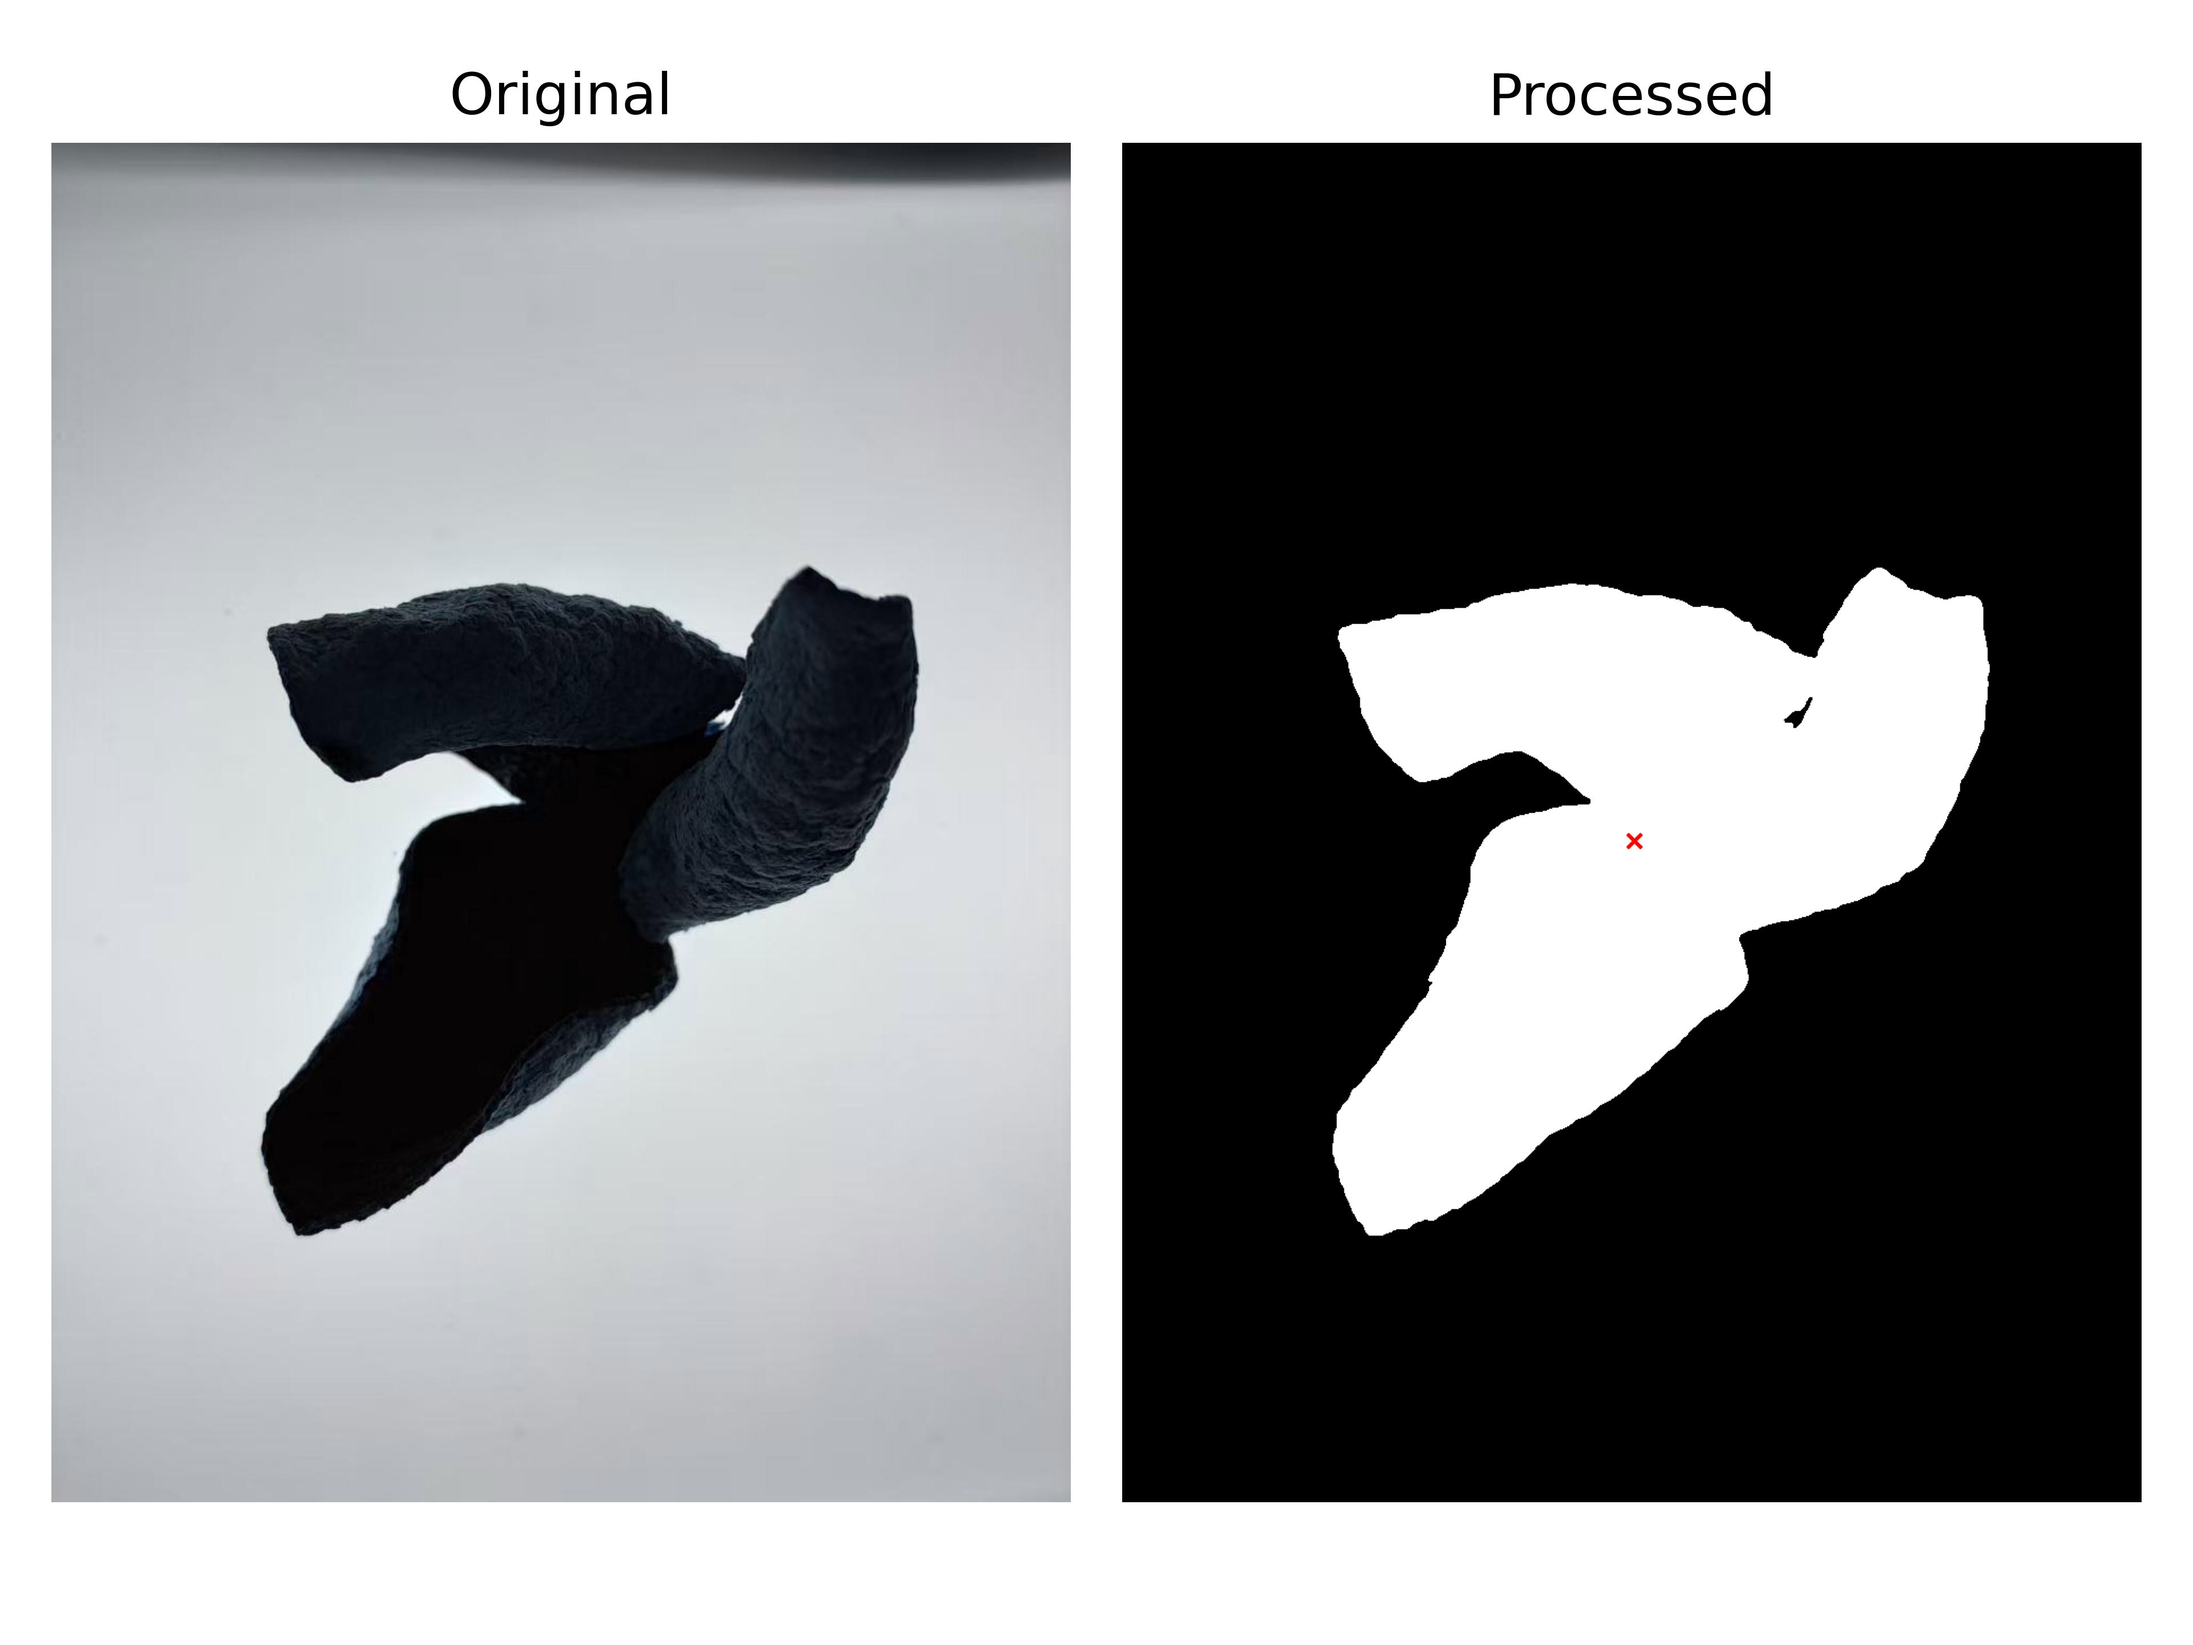
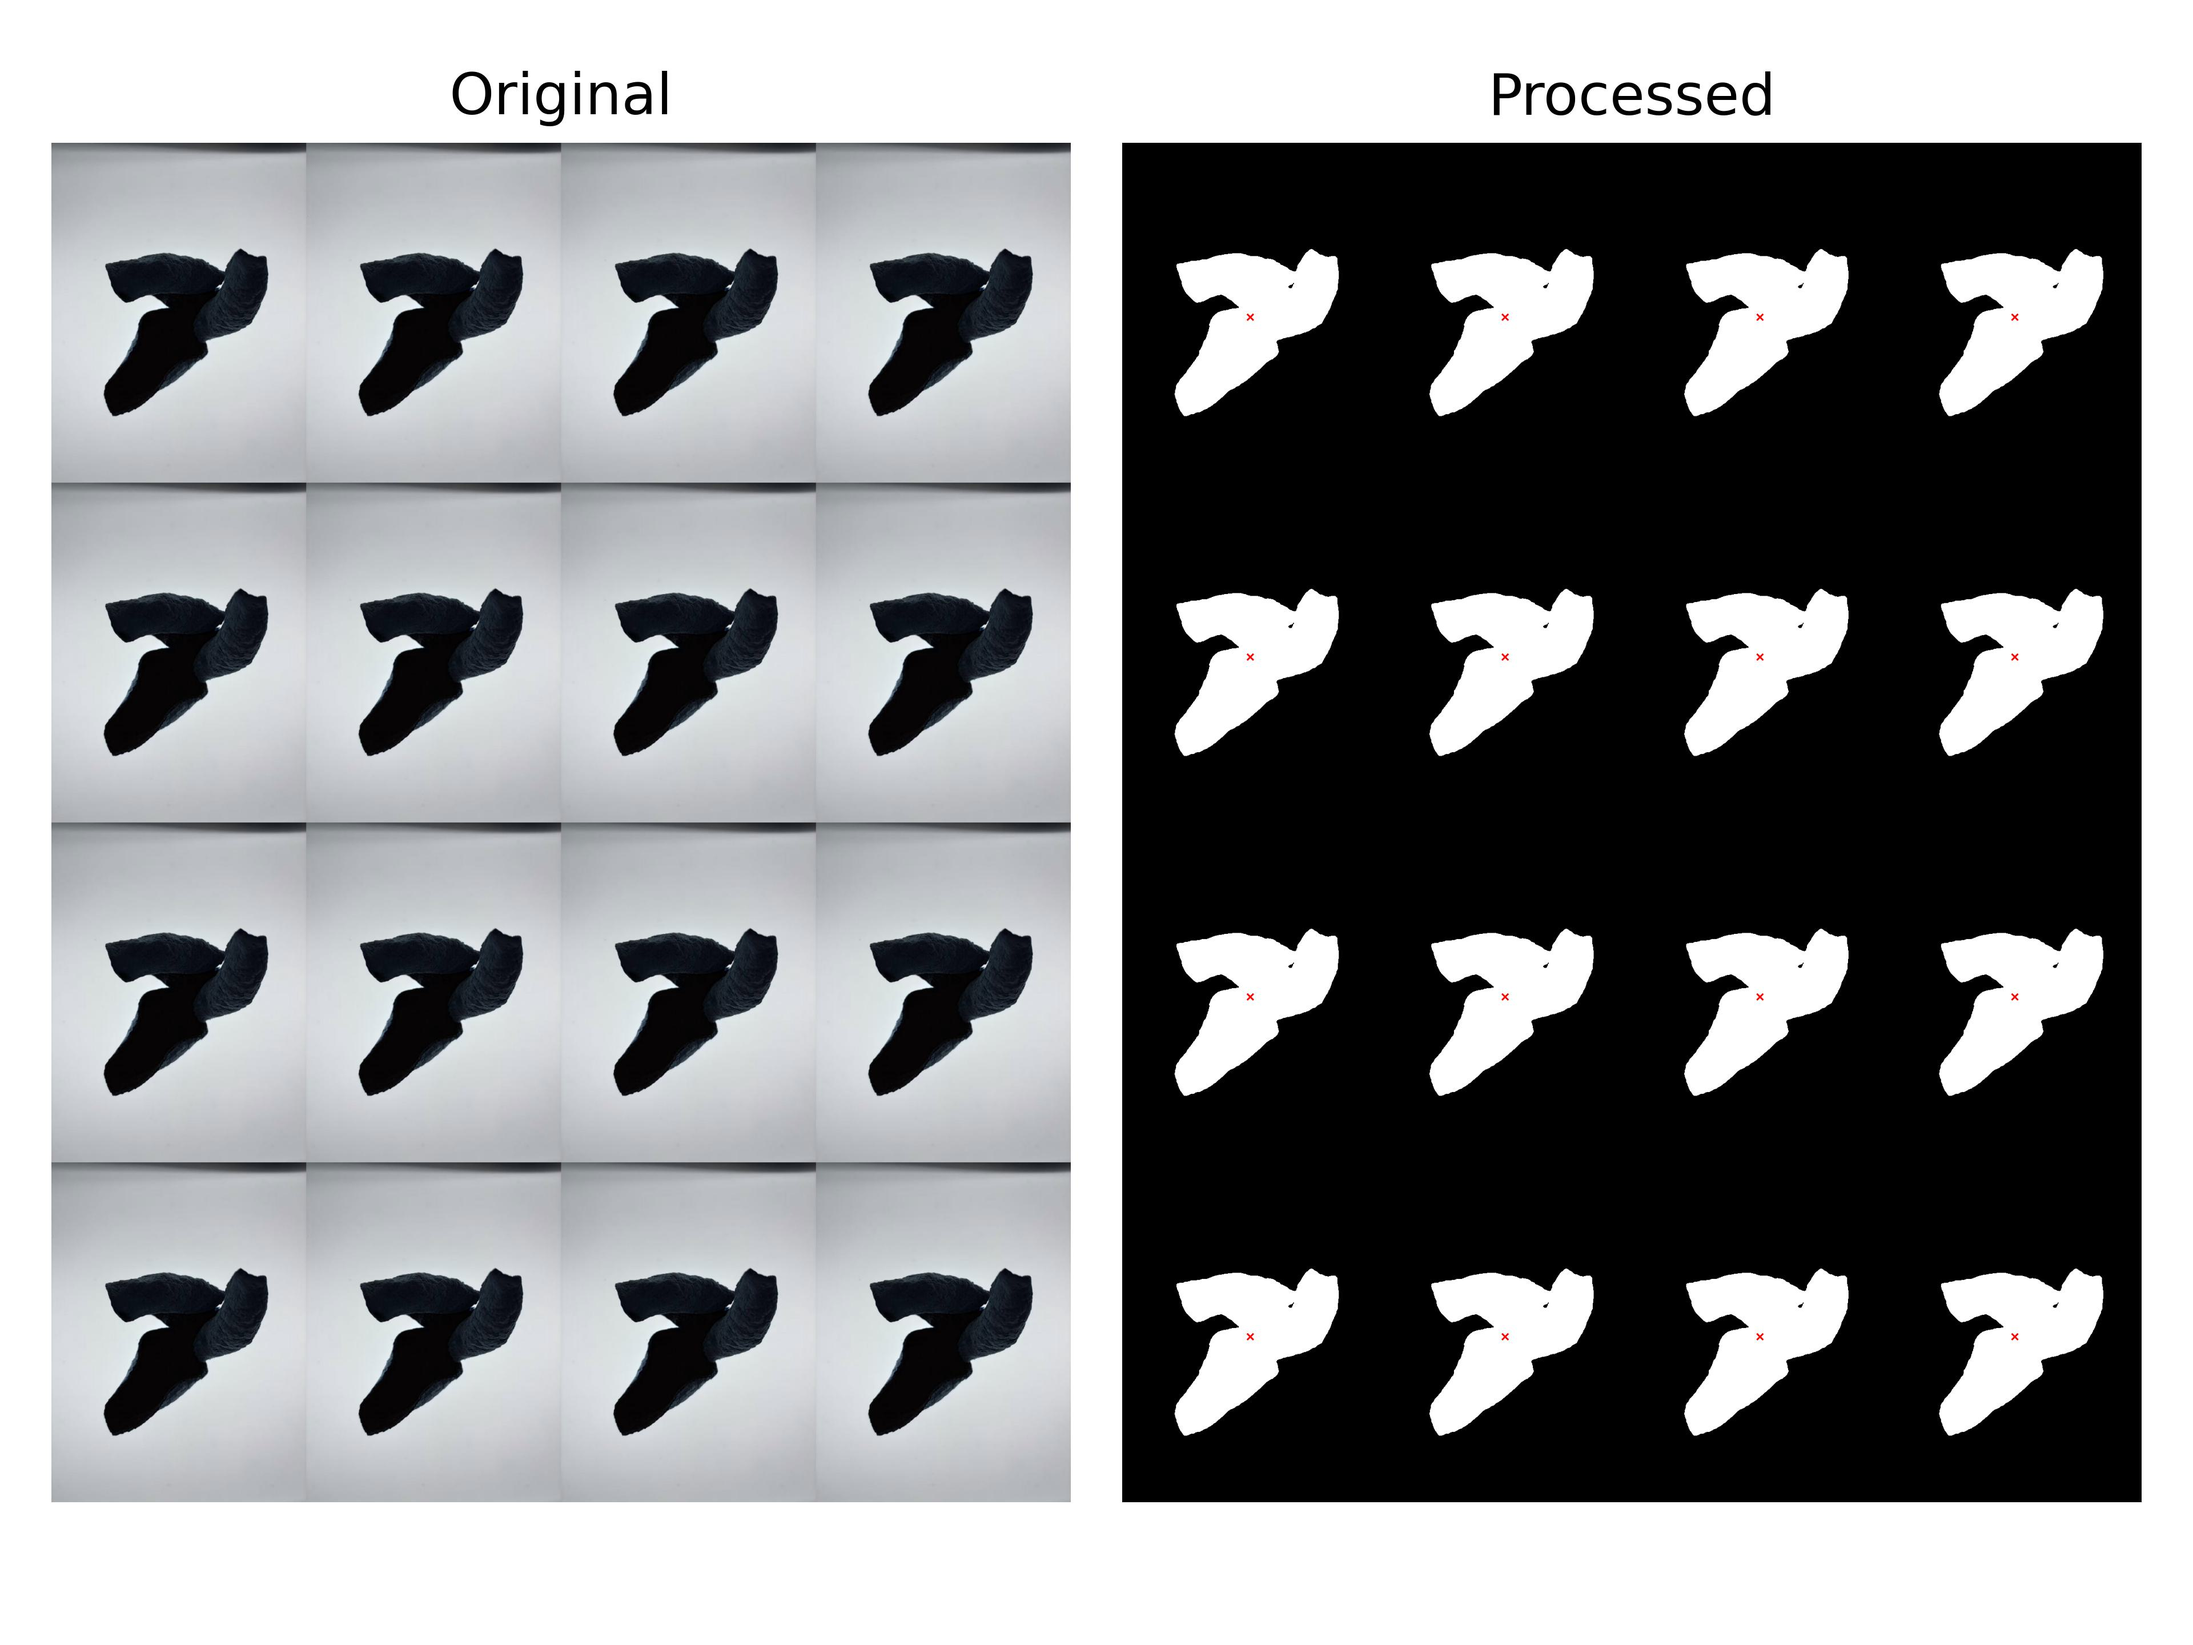
20260116调试

diff --git a/ImgProcesser/ImgProcesser.py b/ImgProcesser/ImgProcesser.py
@@ -145,6 +145,32 @@ class Img:
             self.data = vis
         return (cx, cy)
 
+    def multi_centroids(self, min_area=300, draw=True):
+        num_labels, labels, stats, centroids = cv2.connectedComponentsWithStats(
+            self.data, connectivity=8
+        )
+        coords = []
+        vis = cv2.cvtColor(self.data, cv2.COLOR_GRAY2BGR) if draw else self.data
+        for i in range(1, num_labels):
+            area = stats[i, cv2.CC_STAT_AREA]
+            if area < min_area:
+                continue
+            cx, cy = centroids[i]
+            cx, cy = int(cx), int(cy)
+            coords.append((cx, cy))
+            if draw:
+                cv2.drawMarker(
+                    vis,
+                    (cx, cy),
+                    (255, 0, 0),
+                    markerType=cv2.MARKER_TILTED_CROSS,
+                    markerSize=12,
+                    thickness=2
+                )
+        if draw:
+            self.data = vis
+        return coords
+
 if __name__ == "__main__":
     img = Img(path='datasetALL/1.bmp')
 

diff --git a/ImgProcesser/ChenpiData/process.py b/ImgProcesser/ChenpiData/process.py
@@ -1,0 +1,32 @@
+from __future__ import annotations
+
+from pathlib import Path
+
+import matplotlib.pyplot as plt
+import numpy as np
+
+
+def main() -> None:
+    # 加载 1.bmp，并将其平铺拼接成 4x4 的大图后显示
+    img_path = Path(__file__).with_name("1.bmp")
+    img = plt.imread(str(img_path))
+
+    # img 可能是 (H,W) 灰度或 (H,W,C) 彩色；分别处理 tile 的 reps
+    reps = (4, 4) if img.ndim == 2 else (4, 4, 1)
+    tiled = np.tile(img, reps)
+
+    fig, ax = plt.subplots()
+    if tiled.ndim == 2:
+        ax.imshow(tiled, cmap="gray")
+    else:
+        ax.imshow(tiled)
+    ax.axis("off")
+    fig.tight_layout(pad=0)
+
+    # 注意：很多后端在 plt.show() 之后会关闭/清空当前图像，导致 savefig 变成“全白”。
+    fig.savefig("tiled_image.png", dpi=600, bbox_inches="tight", pad_inches=0)
+    plt.show()
+
+
+if __name__ == "__main__":
+    main()

diff --git a/ImgProcesser/example.py b/ImgProcesser/example.py
@@ -26,7 +26,7 @@ coords = list()
 #     plt.savefig(f'processed_image/processed_{i}{coords[-1]}.jpg', dpi=600)
 #     plt.close()
 
-img_path = f'ImgProcesser/ChenpiData/1.bmp'
+img_path = f'ImgProcesser/ChenpiData/tiled_image.png'
 img = Img(path=img_path)
 plt.figure()
 plt.subplot(1, 2, 1)
@@ -37,8 +37,10 @@ img.gray().\
     otsu(inverse=True).\
     open(ksize=3, shape="ellipse").\
     remove_small_objects(min_area=50000)
-coords.append(img.centroid(min_area=50000, draw=True))
+coords.append(img.multi_centroids(min_area=50000, draw=True))
 img.show(title="Processed")
 plt.tight_layout()
-plt.savefig(f'ImgProcesser/ChenpiData/processed_1.jpg', dpi=600)
+# plt.savefig(f'ImgProcesser/ChenpiData/processed_1.jpg', dpi=600)
+plt.show()
 plt.close()
+print(f"Centroid Coordinates: {coords}")

diff --git a/main.py b/main.py
@@ -14,9 +14,10 @@ PORT_robot = '8080'
 
 if True:
     ctrlboard = device(host=HOST_device, port=PORT_device)
+    ctrlboard.hopper_relay.set_open_time(2)
     ctrlboard.hopper_relay.open()
-    time.sleep(2)
-    ctrlboard.hopper_relay.close()
+    # time.sleep(2)
+    # ctrlboard.hopper_relay.close()
     
 
 if False:
